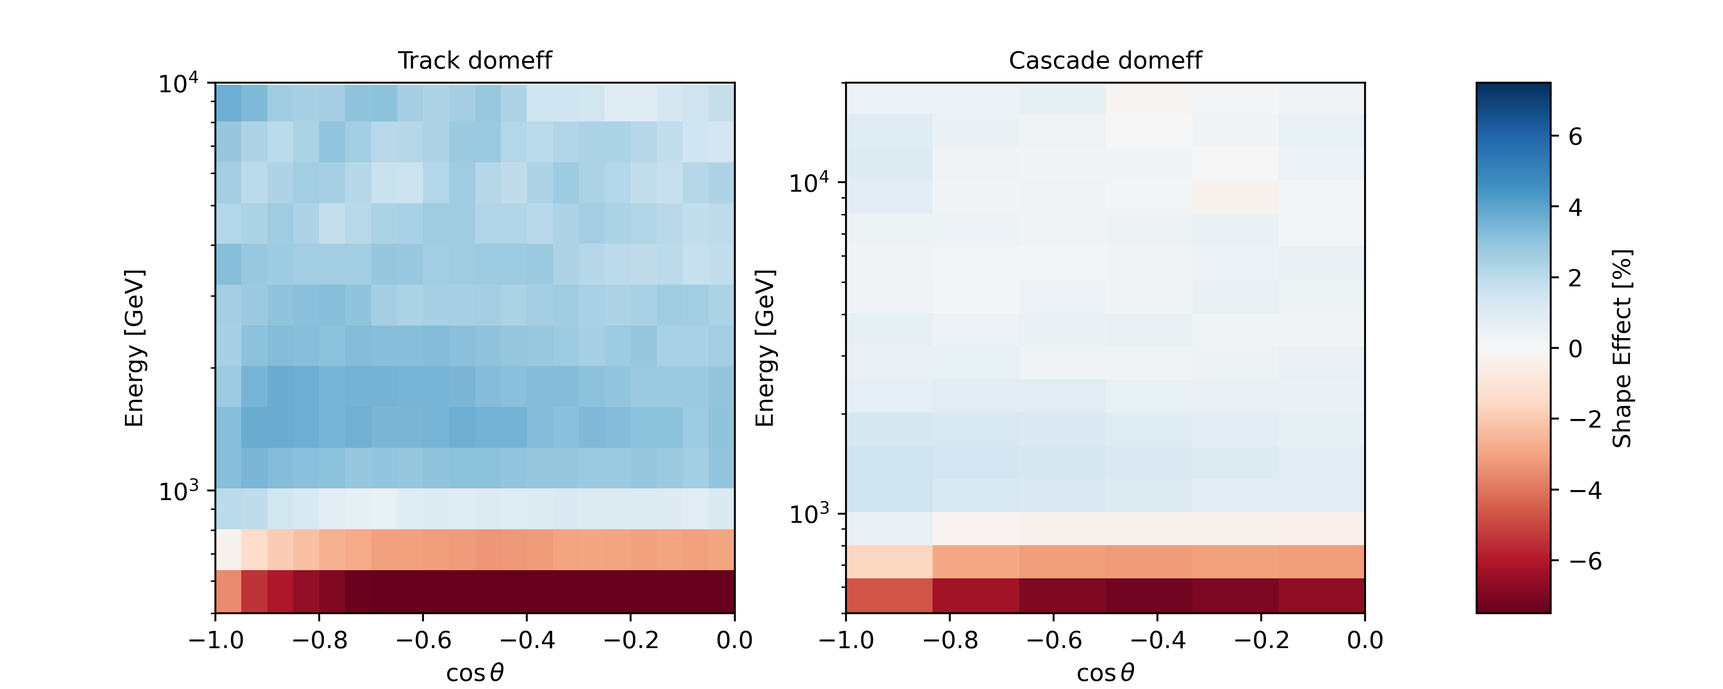
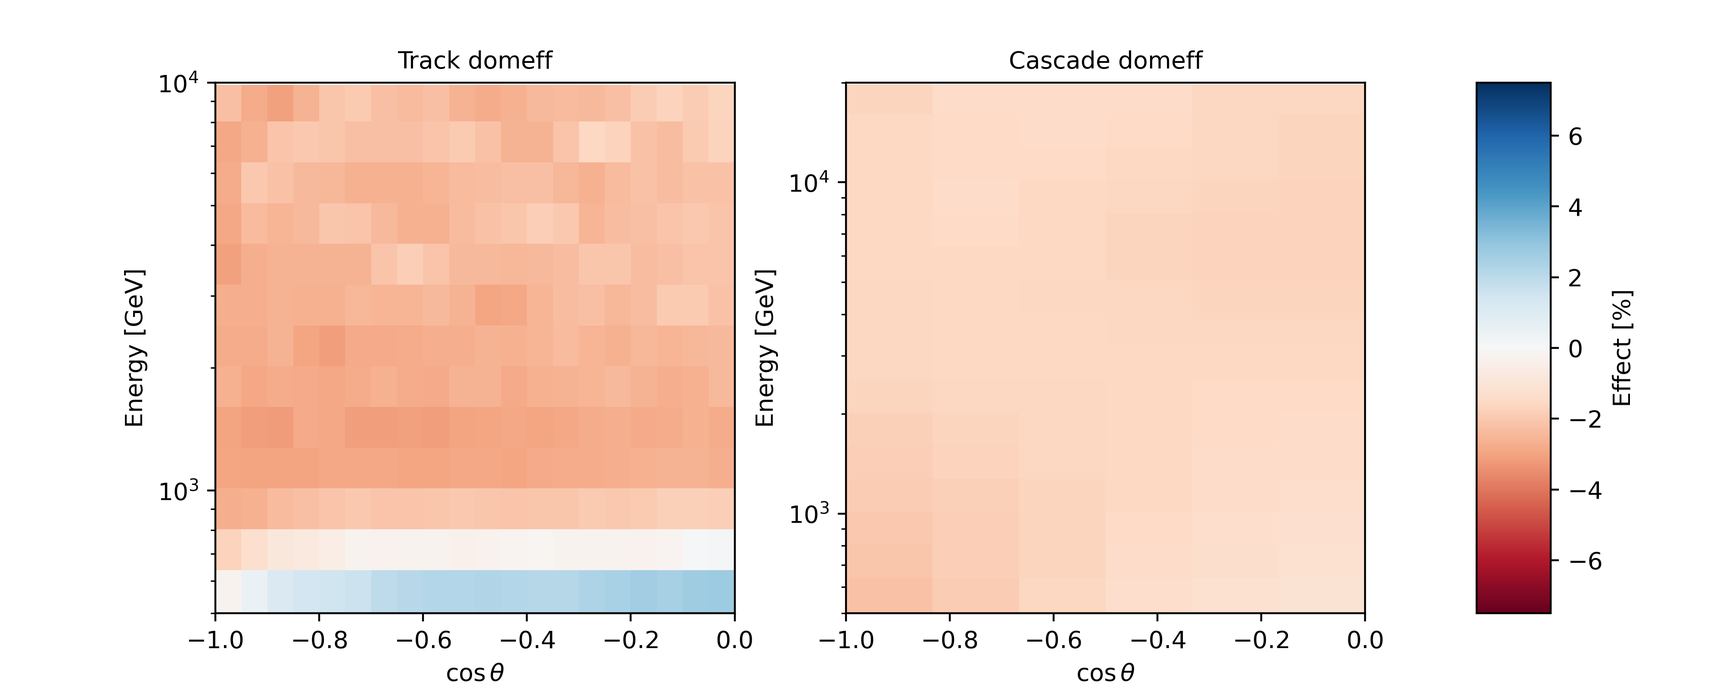
more snowstorm stuff

diff --git a/systematics.tex b/systematics.tex
@@ -9,16 +9,29 @@
 While some sources of systematic uncertainty can be easily addressed through re-weighting, such as uncertainties on cosmic ray fluxes, others can have non-trivial effects on the reconstruction of events. 
 These `low-level' sources of systematic uncertainty typically, and historically, required a dedicated MC sample where the parameter was perturbed by some fixed, discrete, amount. 
 This method becomes intractable when multiple, highly correlated, sources of systematic uncertainty are present. 
-To address this, a new method for efficiently determining the effects of these parameters was developed, and is discussed at-length in Reference~\cite{Aartsen_2019_snow}.
-%This is called the \textit{Snowstorm}\footenote{The technique formerly known as \textit{MultiSim} method.
+Such is the case for the scattering and absorption lengths as a function of depth in IceCube, which are influenced by many forms of optical impurity. 
+To address this, a new method for efficiently determining the effects of these parameters was developed for IceCube analyses: SnowStorm\footnote{The name SnowStorm reflects the idea that each event in the sample is distinct, like each snowflake in a snowstorm~\cite{Aartsen_2019_snow}}. 
+It is discussed at-length in Reference~\cite{Aartsen_2019_snow}.
+Several Snowstorm implementations are used in this analysis, and so it is introduced in the section that follows. 
 
-Snowstorm relies on two underlying assumptions
-\begin{itemize}
-    \item The effects of systematic uncertainty are small enough that that they can be treated perturbatively 
-    \item MC statistical error is small compared to the data
-\end{itemize}
-In this context, one can sum over a Monte Carlo ensemble with correlating to a different set of nuisance parameters $\vec{\eta}$, which are distributed according to a prior function $P(\vec{\eta})$.
-We also require that this prior function is normalized and symmetric for each nuisance parameter $\eta_{i}$, such that 
+Snowstorm relies on two underlying assumptions which are generally the same for most commonly used methods of systematic uncertainty estimation.
+First, it assumes the effects of systematic uncertainty are sufficiently small such as to be treated perturbatively. 
+Second, it assumes that the Monte Carlo statistical uncertainty is small compared to the data.
+
+We consider some set of parameters $\vec{\eta}$, called ``nuisance parameters,'' which are imperfectly known and yet contribute to the predicted final event rates. 
+We wish to, given some choice of $\vec{\eta}$, calculate a predicted event rate $\psi_{\vec{\rho}, \vec{\eta}}(E_{\alpha})$, where a central prediction is denoted $\psi_{\vec{\rho}, \vec{0}}(E_{\alpha})$.
+
+A SnowStorm Monte Carlo ensemble consists of a single sample where every constituent event draws a unique set of nuisance parameters $\vec{\eta}$ from prior constraints. 
+By careful manipulation of this SnowStorm ensemble it can then be possible to extract the effects of these variations on analysis-space. 
+A SnowStorm ensemble's distinction from classical MC methods for systematic uncertainty evaluation is shown in Figure~\ref{fig:snostorm_grad}.
+
+\begin{figure}
+    \centering
+    \includegraphics[width=0.6\linewidth]{./figures/wacky_snowstorm.png}
+    \caption{On the left: an illustration of the difference between the classical systematic uncertainty implementation of discrete Monte Carlo samples (red squares) and the single SnowStorm ensemble (blue dots). On the right: }\label{fig:snostorm_grad}
+\end{figure}
+
+We first require that tje prior function describing the nuisance parameters $\vec{\eta}$ is normalized and symmetric for each $\eta_{i}$, such that 
 \begin{align}
     P(\eta_{i}, \vec{\eta}_{j\neq i}) &= P(-\eta_{i},\vec{\eta}_{j\neq i}) & &\forall i\\
     \int d^{N}\eta P(\vec{\eta}) &= 1
@@ -27,14 +40,50 @@ We explicitly choose a prior function for the nuisance parameters that is a prod
 \begin{equation}
     P(\vec{\eta}) = \prod_{i} \dfrac{1}{\sigma \sqrt{2\pi}} e^{-\eta_{i}^{2}/2\sigma^{2}}.
 \end{equation}
+The effects of these nuisance parameters on analysis space can be calculted, in principle, if we know the gradients about the central distribution:
+\begin{equation}\label{eq:supersnow}
+    \psi_{\vec{\rho}, \vec{\eta}} = \psi_{\vec{\rho}, \vec{0}}(E_{\alpha}) + \vec{\eta}\cdot\vec{\nabla}_{\eta}\left[\psi_{\vec{\rho}, \vec{\eta}}(E_{\alpha})\right]_{\vec{\eta}=0} + \mathcal{O}(\eta^{2}).
+\end{equation}
+Since we have assumed that the effects are sufficiently small, we can neglect the higher-order terms. 
+This can be verified by considering the integrated prediction of the SnowStorm sample:
+\begin{align}
+    \psi_{\vec{\rho}}^{SnowStorm} &= \int d \vec{\eta} P(\vec{\eta})\left[ \psi_{\vec{\rho}, \vec{0}} + \vec{\eta}\cdot\vec{\nabla}_{\eta}\left[\psi_{\vec{\rho}, \vec{\eta}} \right]_{\vec{\eta}=0} + \mathcal{O}(\eta^{2}) \right] \\
+    &= \psi_{\vec{\rho}, \vec{0}}  + \int d\vec{\eta} P(\eta)\mathcal{O}(\eta^{2})
+\end{align}
+If the non-linear term here is smaller than the available statistical uncertainty, then this test passes, and so Equation~\eqref{eq:supersnow} reduces to
+\begin{align} 
+\psi_{\vec{\rho}, \vec{\eta}}&= \psi_{\vec{\rho}, \vec{0}} + \vec{\eta}\cdot\vec{G}_{\vec{\rho}} & \vec{G}_{\vec{\rho}}&\equiv \vec{\nabla}_{\eta}\left[\psi_{\vec{\rho}, \vec{\eta}}\right]_{\vec{\eta} =\vec{0}}
+\end{align}
 
-WRITE more
+From the single SnowStorm ensemble, the method used for gradient extraction involves the sub-division of the full ensemble by cutting it along different directions.
+For example, to extract the the $\eta_{i}$ gradient, we divide it along the $\eta_{i}=0$ plane into sub-samples $\psi_{\vec{\rho}}^{i+}$ and $\psi_{\vec{\rho}}^{i-}$, which each encode the predictions:
+\begin{align} 
+    \psi_{\vec{\rho}}^{i+} &= \int_{0}^{\infty}d\eta_{i} \int_{-\infty}^{\infty} d^{N-1} \eta P(\vec{\eta})\left[ \psi_{\vec{\rho}, \vec{0}} + \vec{\eta}\cdot\vec{G}_{\vec{\rho}} \right] \\
+    \psi_{\vec{\rho}}^{i-} &= \int_{-\infty}^{0}d\eta_{i} \int_{-\infty}^{\infty} d^{N-1} \eta P(\vec{\eta})\left[ \psi_{\vec{\rho}, \vec{0}} + \vec{\eta}\cdot\vec{G}_{\vec{\rho}} \right] 
+\end{align}
+By symmetry, the integrals along directions other than $i$ give no contribution. The integration then yields
+\begin{equation}
+    \psi_{\vec{\rho}}^{i\pm} = \dfrac{1}{2} \psi_{\vec{\rho}, \vec{0}} \pm \dfrac{\sigma}{\sqrt{2\pi}}G_{\vec{\rho}, i},
+\end{equation}
+from which we can extract the gradient in that direction
+\begin{equation}
+    G_{\vec{\rho}, i} = \dfrac{1}{\sigma}\sqrt{\dfrac{\pi}{2}}\left(\psi_{\vec{\rho}}^{i+} - \psi_{\vec{\rho}}^{i-} \right).
+\end{equation} 
+By then cutting the ensemble along each direction sequentially, the full gradient vector can be extracted completely. 
+
 
 Two Monte Carlo samples were generated to evaluate the effects of various sources of systematic uncertainty on analysis space. 
-In one, a sample was generated while allowing the amplitudes and phases, for a Fourier series describing the depth-dependence of the absorption length and scattering length, to vary amounts shown in Table TABLE. 
-This is described in detail in Subsection~\ref{sec:bulk}.
-In the other sample the DOM efficiency, both unified hole ice parameters were allowed to vary, a parameter effecting ice anisotropy, and two parameters effecting bulk absorption and scattering lengths were allowed to vary. The anisotropy, bulk absorption, and bulk scattering gradients were not used in this analysis. 
-Priors used in this sample are shown in Table~\ref{table:snowstorm2}. 
+In one, a sample was generated while allowing the amplitudes and phases, for a Fourier series describing the depth-dependence of the absorption length and scattering length, to vary amounts shown in Figure~\ref{fig:ice_param_widths}. 
+A full description of this and the process of extracting these widths from calibration is described in detail in Subsection~\ref{sec:bulk}, and the priors widths used in the generation of this SnowStorm MC sample are shown in Table~\ref{table:snowstorm2}. 
+In the other sample the DOM efficiency (Section~\ref{subsect:domeff}), both unified hole ice parameters (Section~\ref{sec:hole_ice}), a parameter effecting ice anisotropy, and two parameters effecting bulk absorption and scattering lengths were allowed to vary. 
+The anisotropy, bulk absorption, and bulk scattering gradients were not used in this analysis. 
+
+\begin{figure}
+    \centering
+    \includegraphics[width=0.7\linewidth]{figures/ice_amplitudes.png}
+    \includegraphics[width=0.7\linewidth]{figures/ice_phases.png}
+    \caption{The widths of the phases and amplitudes, as determined from calibration data, for a Fourier series describing the depth-dependence of absorption length and scattering length in ice at IceCube.}\label{fig:ice_param_widths}
+\end{figure}
 
 \begin{table}
     \centering
@@ -44,7 +93,7 @@ Priors used in this sample are shown in Table~\ref{table:snowstorm2}.
         Scattering & uniform & [0.9,1.1] & bulk effect, not used\\
         Absorption & uniform & [0.9,1.1] & bulk effect, not used\\
         Anisotropy Scale & uniform & [0,2] & equal to 0-15\%, not used \\
-        DOM Efficiency & uniform & [0.9, 1.1] & values shifted down by 0.27 \\
+        DOM Efficiency & uniform & [0.9, 1.1] &  \\
         Unified HoleIce & uniform & \shortstack{p0 $\in$ [-0.84, 0.3] \\ p1 $\in$ [-0.134, 0.05]} & 
     \end{tabular}
     \caption{A table listing all SnowStorm systematic perturbations and their ranges used in the nuisance parameter MC set.}\label{table:snowstorm2}
@@ -53,11 +102,12 @@ Priors used in this sample are shown in Table~\ref{table:snowstorm2}.
 \subsection{Systematic Downsizing}\label{sect:down}
 
 In this analysis, several sets of nuisance parameters are correlated to various degrees: the astrophysical flux, the cosmic ray flux model and hadronic model, and the absorption and scattering lengths as functions of depth in IceCube. 
-A new method for (1) fitting these correlated priors in an uncorrelated way and (2) representing the effects with fewer parameters was developed and adopted. 
+PISA~\cite{pisa}, the fitting framework used for this analysis, is incompatible with correlated priors due to the details of its construction. 
+To account for this, a new method for (1) fitting these correlated priors in an uncorrelated way and (2) representing the effects with fewer parameters was developed and adopted. 
 
-Considering a set of $n$ nuisance parameters $\vec{x}$, each with mean $\mu$.
-An $n\times n$ matrix, $\Sigma$ defines the positive-definite covariance between these nuisance parameters. 
-If we assume the distribution is jointly normally distributed, then the probability density function defining the odds of a set of nuisance parameters $\vec{y}$ being the ``true'' values is given by
+Consider a set of $n$ nuisance parameters $\vec{x}$ with means $\vec{\mu}$.
+A positive-definite, $n\times n$, matrix $\Sigma$ defines the covariance between the nuisance parameters. 
+If we assume the distribution is jointly normally distributed, then the probability density function defining the propability of a set of nuisance parameters $\vec{y}$ being the ``true'' values is given by
 \begin{equation}
     P(\vec{y}) = \dfrac{1}{(2\pi)^{n/2}\left|\Sigma\right|^{1/2}}\exp\left[-\tfrac{1}{2}(\vec{y}-\vec{\mu})^{T}\Sigma^{-1}\left(\vec{y}-\vec{\mu}\right)\right]
 \end{equation}
@@ -67,7 +117,7 @@ For consistency with goodness of fits tests and usefulness in minimization appli
 \begin{equation}
 \mathcal{L} \equiv \log P = -\tfrac{1}{2}\vec{p}^{T}\Sigma^{-1}\vec{p} + C
 \end{equation}
-We diagonalize this matrix by considering a transformation $U\in SO(N)$ satisfying $A = U\Sigma^{-1}U^{T}$, where $A$ is diagonal. 
+We diagonalize this matrix by considering a transformation $U\in SO(N)$ satisfying $A = U\Sigma^{-1}U^{T}$, where $A$ is a diagonal matrix with $1/\lambda_{i}$'s on the diagonal. 
 \begin{equation}
     \mathcal{L} \equiv \log P = -\tfrac{1}{2}\vec{p}^{T} U^{T} U\Sigma^{-1} U^{T} U\vec{p}
 \end{equation}
@@ -76,14 +126,15 @@ or where the primed coordinates are the transformed coordinates,
     \mathcal{L} \equiv \log P = -\tfrac{1}{2}(\vec{p}')^{T} A \vec{p}'.
 \end{equation}
 Thus, we can always rotate a correlated nuisance parameter basis to one where the priors on the parameters are uncorrelated. 
-
-To solve for the transformation, all we really have to do is move some terms around starting from the construction of $A$ and $U$, 
-\begin{equation} 
-    \Sigma U =  U\left[ \begin{array}{cccc}\lambda_{!} & 0 & \ldots & 0 \\
+To solve for the transformation, all we have to do is move some terms around starting from the construction of $A$ and $U$, 
+\begin{align} 
+    A &= U\Sigma^{-1}U^{T}\\
+    A^{-1}&= U^{T} \Sigma U \\
+    \Sigma U &=  U\left[ \begin{array}{cccc}\lambda_{1} & 0 & \ldots & 0 \\
         0 & \lambda_{2} & \ldots & 0 \\
         \vdots & \vdots & \ddots & \vdots \\
         0 & 0 & \ldots & \lambda_{n} \end{array}\right].
-\end{equation}
+\end{align}
 By re-writing the transformation matrix $U$ as a vector of its column vectors $\eta_{i}$, $U=\left[\begin{array}{ccc}\eta_{1} & \ldots & \eta_{n} \end{array}\right]$, then the equation can be expressed simply as 
 \begin{equation}
     \Sigma \eta_{i} = \lambda_{i}\eta_{i}.
@@ -97,7 +148,51 @@ We lay out a procedure then for any given covariance matrix
     \item Fits are performed in the uncorrelated basis - to evaluate effects of systematic uncertainty we transform whatever point is in question back to the correlated basis and evaluate the effects using the original parametrization. 
 \end{enumerate}
 
-\section{Applications}
+\section{Analysis Applications}
+
+
+A table showing parameterization of all included systematic uncertainties, their central values, their prior widths, the event morphologies they apply to, and notes about the implementation are included in Table~\ref{table:nutrition}.
+
+\begin{table}
+    \centering
+    \rowcolors{2}{gray!25}{white}
+    \begin{tabular}{c | ccccc}\rowcolor{blue!25}
+        {\large \textbf{Parameter}} & {\large \textbf{Center}} & {\large \textbf{Prior}} & {\large \textbf{Boundary}}& {\large \textbf{Morphology}} & {\large \textbf{Implementation}}\\ \hline
+        \multicolumn{6}{c}{Conventional Flux} \\\hline
+        Atm. Density & 0.0 & 0.0$\pm$1.0 & [-4, 4] & Both &  Spline\\
+        Barr WM  & 0.0 & $0.0\pm1.0$ & [-4, 4]& Both & nuSQuIDS Gradient \\
+        Barr WP  & 0.0 & $0.0\pm1.0$ & [-4, 4]& Both & nuSQuIDS Gradient \\
+        Barr YM  & 0.0 & $0.0\pm1.0$ & [-4, 4]& Both & nuSQuIDS Gradient \\
+        Barr YP  & 0.0 & $0.0\pm1.0$ & [-4, 4]& Both & nuSQuIDS Gradient \\
+        Barr ZM  & 0.0 & $0.0\pm1.0$ & [-4, 4]& Both & nuSQuIDS Gradient \\
+        Barr ZP  & 0.0 & $0.0\pm1.0$ & [-4, 4]& Both & nuSQuIDS Gradient \\
+        Spectral Shift $\Delta \gamma$ & 0.0 & $0.0\pm0.25$ & [-4, 4]& Both &  \\
+        Normalization $\Phi_{conv}$ & 1.0 & $1.0\pm0.4$ & [0, 4] & Both & \\
+        \multicolumn{6}{c}{Astrophysical Flux} \\\hline
+        astro\_rotated\_0$^{\dag}$ & 0.0 & $0.0\pm 0.42 $ & [-2.1, 2.1]&Both & \\
+        astro\_rotated\_1$^{\dag}$ & 0.0 & $0.0\pm0.20$ & [-0.95, 0.95]&Both & \\
+        \multicolumn{6}{c}{Cross Sections} \\\hline
+        Cross section $\sigma_{\nu}$ & 1.0 & $1.0\pm0.03$ & [0.5, 1.5]& Both & Spline \\
+        Cross section $\sigma_{\bar{\nu}}$ & 1.0 & $1.0\pm0.075$ & [0.5, 1.5]& Both & Spline \\
+        Kaon energy loss $\sigma_{KA}$ & 0.0 & $0.0\pm1.0$ & [-4.0, 4.0]& Both &  nuSQuIDS Gradient\\
+        \multicolumn{6}{c}{Detector} \\\hline 
+        hole\_ice\_scale & -1.0 & $-1\pm10$ & [-4, 1]&Tracks & \\
+        holeice p$_{0}$ & 0.0 & $0\pm 1.0$ & [-4, 4]&Cascades & \\
+        holeice p$_{1}$ & 0.0 & $0\pm 1.0$ & [-4, 4]&Cascades & \\
+        ice\_0$^{\ddag}$ & 0.0 & $0\pm 1.0$ & [-4, 4]&Cascades & spline \\
+        ice\_1$^{\ddag}$ & 0.0 & $0\pm 1.0$ & [-4, 4]&Cascades & spline \\
+        ice\_3$^{\ddag}$ & 0.0 & $0\pm 1.0$ & [-4, 4]&Cascades & spline \\
+        ice\_5$^{\ddag}$ & 0.0 & $0\pm 1.0$ & [-4, 4]&Cascades & spline \\
+        ice\_6$^{\ddag}$ & 0.0 & $0\pm 1.0$ & [-4, 4]&Cascades & spline \\
+        ice\_grad\_0\_rotated$^{*}$ & 0.0 & $0\pm 1.0$ & [-4, 4] & Tracks & \\
+        ice\_grad\_1\_rotated$^{*}$ & 0.0 & $0\pm 1.0$ & [-4, 4]& Tracks & \\
+        DOM Efficiency & 1.0 & $1.00\pm0.123$ & [0.972, 1.058] & Both & Spline \\
+        \multicolumn{6}{c}{Muons} \\\hline
+        Normalization $\Phi_{muon}$ & 1.0 & $1.0\pm0.2$ & [0, 2] & Cascades & \\        
+    \end{tabular}
+    \caption{The central values, priors, and boundaries for all nuisance parameters. The ice gradients and astrophysical parameters are all listed here in the uncorrelated basis and in terms of the $1\sigma$ priors calculated from a PCA of their covariance matrices; these parameters are linear combinations of correlated parameters and are marked with $*$, $\dag$, or $\ddag$.}\label{table:nutrition}
+\end{table}
+
 \subsection{DOM Efficiency}\label{subsect:domeff}
 
 \paragraph{Cascades}
@@ -137,12 +232,10 @@ For each DOM Efficiency, a 2D spline was done to the expected number of events i
 Each of these splines was then stacked into a 3D spline, which allows for the continuous sampling of the event rate as a function of zenith, energy, and DOM efficiency. 
 The effects on overall reconstructed even rates are shown for tracks on the left of Figure~\ref{fig:domeff_analysis}.
 
-Both tracks and cascades were observed to be effected nearly identically by the uncertainty in DOM efficiency. 
-
 \begin{figure}
     \centering
     \includegraphics[width=0.8\linewidth]{figures/systematics/domeff.png}
-    \caption{The effects of perturbing the DOM efficiency on expected numbers of tracks (left) and cascades (right).}\label{fig:domeff_analysis}
+    \caption{The effects of perturbing the DOM efficiency on expected numbers of tracks (left) and cascades (right). The shape effect is not shown here to demonstrate how the DOM efficiency in cascades is mostly a normalization effect}\label{fig:domeff_analysis}
 \end{figure}
 
 \subsection{Bulk Ice}\label{sec:bulk}
@@ -163,11 +256,11 @@ To calibrate these amplitudes and phases and to determine the covariance between
 These use the 12 on-board LEDs mounted in the housings of each DOM. 
 The LEDs on all DOMs of string 63 are flashed, and then the measured light throughout IceCube, minus string 63, is logged. 
 Then, PPC simulations were carried out for various, perturbed, ice models were performed. 
-PPC simulations were performed by perturbing the amplitudes and phases for the first four modes in the Fourier series expansion of the depth dependence of absorption and scattering in the bulk ice.
+PPC simulations were performed by perturbing the amplitudes and phases for the first five modes in the Fourier series expansion of the depth dependence of absorption and scattering in the bulk ice.
 PPC simulations were also performed by perturbing various combinations of these modes. 
 These PPC simulations were used, in conjunction with the measured flasher data, to quantify the likelihood of the observed data assuming different ice models,
 
-For each amplitude and phase, these likelihoods were calculated for icemodels where the first five Fourier amplitudes and the first four Fourier phases were shifted. 
+For each amplitude and phase, these likelihoods were calculated for icemodels where the first five Fourier amplitudes and the first five Fourier phases were shifted. 
 These values were shifted large amounts first, from which an approximate minimum and width was determined. 
 Then, more granular PPC simulations were carried out by varying these amplitudes and phases about the approximate centers. 
 Off-axis simulations were also carried out by shifting every possible combination of nuisance parameters, either both positively or both negatively, by varying amounts. 
@@ -177,7 +270,8 @@ For each amplitude and phase a quadratic fit was then done to the log likelihood
 \begin{equation}
     \mathcal{L}(\eta_{i}) = A_{i}\eta_{i}^{2} + B_{i}\eta_{i} + C_{i}
 \end{equation}
-where $\eta_{i}$ is for any one amplitude or phase. These fits are shown in Figure~\ref{fig:linearfit} after being normalized by the minimum likelihood found in each fit, and were carried out to verify that these nuisance parameters are normally distributed about the minima. 
+where $\eta_{i}$ is for any one amplitude or phase. These fits are shown in Figure~\ref{fig:linearfit} after being normalized by the minimum likelihood found in each fit, and were carried out to verify that these nuisance parameters are normally distributed about the minima.
+The widths of each of these distributions are shown in Figure~\ref{fig:ice_param_widths}. 
 A similar scan was then done for combinations of nuisance parameters by shifting each possible pairing of them by amounts proportional to the widths of the nuisance parameters. 
 
 \begin{figure}
@@ -293,7 +387,7 @@ The strongest five are shown in Figure~\ref{fig:rotata}.
 \end{figure}
 
 
-\subsection{Hole Ice}
+\subsection{Hole Ice}\label{sec:hole_ice}
 
 The hole ice represents a bubbly, refrozen region of ice around the DOMs. 
 The bubbles, which formed during the refreezing, greatly decrease the scattering length of light. 
@@ -390,7 +484,7 @@ So, we allow for a conservative 40\% uncertainty on the conventional flux normal
 
 We also parametrize an uncertainty on the shape of the conventional neutrino flux, which has been measured to approximately follow a power-law with an energy dependence of $E^{-2.65}$, with a spectral shift $\Delta \gamma$,
 \begin{equation}
-\Phi(E, \Delta gamma) = \Phi(E)\left(\dfrac{E}{E_{0}}\right)^{-\Delta\gamma}
+\Phi(E, \Delta \gamma) = \Phi(E)\left(\dfrac{E}{E_{0}}\right)^{-\Delta\gamma}
 \end{equation}
 where the pivot $E_{0}=2.2$TeV has been chosen to approximately preserve the normalization. 
 Existing measurements of the cosmic ray flux are shown in Table~\ref{tab:spectral}. 
@@ -407,7 +501,7 @@ Existing measurements of the cosmic ray flux are shown in Table~\ref{tab:spectra
     \caption{Measurements of the slope of the cosmic ray flux from several experiments.}\label{tab:spectral}
 \end{table}
 
-More recently, calculations have shown a softening in the cosmic ray spectrum at energies above 10TeV\cite{LIPARI2020102441}. 
+More recently, calculations have shown a softening in the cosmic ray spectrum at energies above 10TeV~\cite{LIPARI2020102441}. 
 To account for this, and previous measurements, we use a prior width on $\Delta \gamma$ of 0.25. 
 
 \begin{figure}
@@ -417,7 +511,7 @@ To account for this, and previous measurements, we use a prior width on $\Delta 
 \end{figure}
 
 
-Like in the 8-year track-only analysis~\cite{Aartsen_2020,Aartsen_2020_prd}, parametrize the uncertainty in the production of pions and kaons in air showers using the model developed by Barr et. al.~\cite{PhysRevD.74.094009} (refered to as the Barr Parametrization from here on). 
+Like in the 8-year track-only analysis~\cite{Aartsen_2020,Aartsen_2020_prd}, we parametrize the uncertainty in the production of pions and kaons in air showers using the model developed by Barr et. al.~\cite{PhysRevD.74.094009} (refered to as the Barr Parametrization from here on). 
 
 Our nominal flux predictions use the Hillas-Gaisser H3a~\cite{GAISSER2012801} cosmic ray flux model. 
 This model is broken into five distinct mass-range populations: p, He, CNO, Fe, and MgSi; each of which correlate to a range of cosmic ray masses. 
@@ -434,11 +528,11 @@ In the lab frame with the target at rest,
     x = \dfrac{ 2M_{p}^{2} - p_{4}^{2}}{2M_{p}^{2}}
 \end{equation}
 where $p_{4}$ is the vector four-momentum of the hadronic component. 
-Regions in this phase-space with similar constraints are established, and enumerated, shown in Figure FIG from Ref~\cite{PhysRevD.74.094009}. 
+Regions in this phase-space with similar constraints are established, and indexed, shown in Figure~\ref{fig:bar_letters} from Ref~\cite{PhysRevD.74.094009}. 
 \begin{figure}
     \centering
     \includegraphics[width=0.7\linewidth]{./figures/barr_letters.png}
-    \caption{Uncertainty regions for the Barr parametrization.}
+    \caption{Uncertainty regions for the Barr parametrization.}\label{fig:bar_letters}
 \end{figure}
 The uncertainties with in each region are fully correlated, and fully uncorrelated between different regions.
 Due to the strong effect of the charge ratio on this signal's analysis, we double the number of parameters in order to independently effect mesons and anti-mesons. 
@@ -456,7 +550,7 @@ As shown in References~\cite{Aartsen_2020, Aartsen_2020_prd, axani2020sterile}, 
 \end{figure}
 
 
-\subsection{Atmospheric Neutrino Flux}\label{sec:daemon_sense}
+\subsection{DaemonFlux}\label{sec:daemon_sense}
 \index{neutrino!flux}
 Previous studies, in particular the 8-year track-only analysis~\cite{Aartsen_2020,Aartsen_2020_prd}, have used an uncertainty on the normalization and spectral index for the cosmic ray flux, and modeled uncertainties on the production of pions and kaons in the air showers using the Barr parametrization~\cite{PhysRevD.74.094009}. 
 In this analysis, we now use the DAta-rivEn MuOn-calibrated Neutrino Flux~\cite{yanez2023daemonflux} (DaemonFlux) model, which incorporates uncertainties estimated for both fixed-target and cosmic ray experimental results, as both our baseline flux prediction and as a method of parametrizing uncertainties in our flux prediction. 
@@ -539,7 +633,7 @@ The effects of pertubing the eight strongest parameters by one sigma are shown f
     \caption{The shape-effect of perturbing four more of the strongest uncorrelated DaemonFlux parameters for tracks and cascades.}\label{fig:daemon_analysis_two}
 \end{figure}
 
-\subsection{Atmospheric Density}
+\subsection{Atmospheric Density}\label{sec:atm_dense}
 
 During air shower evolution, the delicate balance between kaon production, re-interaction, and decay heavily influence the energy spectrum of the resulting neutrinos. 
 The local atmospheric conditions of the temperature, density, and pressure all influence this balance; an effect that has previously been studied in the neutrino spectrum by IceCube~\cite{heix2019seasonal,abbasi2023observation}. 
@@ -577,7 +671,7 @@ The 1976 United States Standard atmosphere~\cite{united1976u} was also used as a
 
 
 
-\subsection{Kaon-nucleon Total Cross-Section}
+\subsection{Kaon-nucleon Total Cross-Section}\label{sec:kaon_loss}
 
 The majority of the neutrino flux at the energies relevant to this analysis come from the decays of Kaons, as shown in Figure~\ref{fig:parentparty}.
 
@@ -603,7 +697,7 @@ Future proton-Oxygen collisions in Run 3 at the LHC could constrain the uncertai
     \caption{The effects in analysis space on tracks (left) and cascades (right) after perturbing the kaon-nucleon cross-section by 7.5\%.}\label{fig:kaon}
 \end{figure}
 
-\subsection{Astrophysical Neutrino Flux}
+\subsection{Astrophysical Neutrino Flux}\label{sec:astro_flux}
 
 Astrophysical neutrinos are a background to this analysis; it is modeled here as an isotropic, unbroken power law spectrum with equal contributions from each neutrino variety.
 The priors are the same as for the previous track analyses~\cite{Aartsen_2020, Aartsen_2020_prd}, which use the IceCube High-Energy Starting Events sample~\cite{2021hese} to construct a correlated prior for the normalization and spectral index. 
@@ -619,7 +713,7 @@ were $\Delta_{\gamma_{\text{astro}}}$ represents a shift in the spectral index, 
 \begin{figure}
     \centering
     \includegraphics[width=0.6\linewidth]{figures/hese.png}
-    \caption{Constraints on the normalization and spectral index of the astrophysical neutrino flux. Contributions to the overall prior are shown from the Diffuse six-year sample CITE, the multi-year cascades sample, and from the HESE sample. Figure from Ref~\cite{Aartsen_2020_prd}.}\label{fig:hese}
+    \caption{Constraints on the normalization and spectral index of the astrophysical neutrino flux. Contributions to the overall prior are shown from the IceCube Northern tracks sample~\cite{stettner2019measurement}, the multi-year cascades sample~\cite{Aartsen_2020_cascades}, and from the IceCube high-energy starting events sample~\cite{2021hese}. Figure from Ref~\cite{Aartsen_2020_prd}.}\label{fig:hese}
 \end{figure}
 
 Two new uncorrelated nuisance parameters are constructed following the same procedures of Section~\ref{sect:down}. The effects of perturbing each of these new, uncorrelated, parameters are shown in Figure~\ref{fig:recoastro} with tracks on the left and cascades on the right.
@@ -814,9 +908,8 @@ A parameter allowing for the overall normalization of the entire neutrino flux i
 It is given a conservative 20\% prior driven by a number of effects: livetime O(<1\%), ice density O(<1\%), volume O(9\%)~\cite{Sandrock_2020}, and the neutrino-ice cross-section O(10\%)~\cite{candido2023neutrino}. 
 This normalization does not effect the cosmic ray muon background; it has an independent normalization factor. 
 
+\iffalse
 \subsection{All Systematic Uncertainties}
-
-A table showing parameterizations of all included systematic uncertainties, their central values, and the prior widths, are included in Table~\ref{table:nutrition}.
 
 \begin{table}
     \centering
@@ -859,5 +952,6 @@ A table showing parameterizations of all included systematic uncertainties, thei
     \end{tabular}
     \caption{The central values, priors, and boundaries for all nuisance parameters. The ice gradients, Daemonflux, and astrophysical parameters are all listed here in the uncorrelated basis and in terms of the $1\sigma$ widths determined from a PCA of their covariance matrices; these parameters are linear combinations of correlated parameters and are marked with $*$,$**$ $\dag$, or $\ddag$.}\label{table:nutrition}
 \end{table}
+\fi
 
 \end{document}
